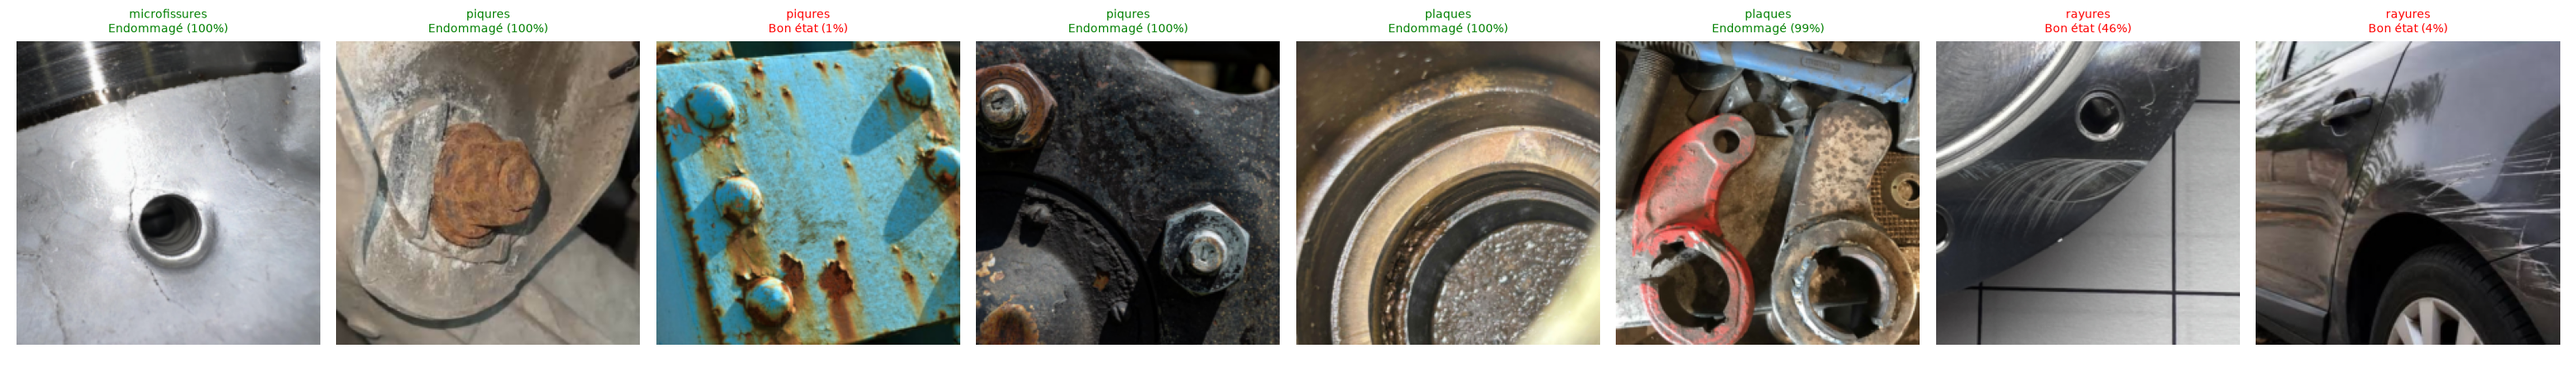
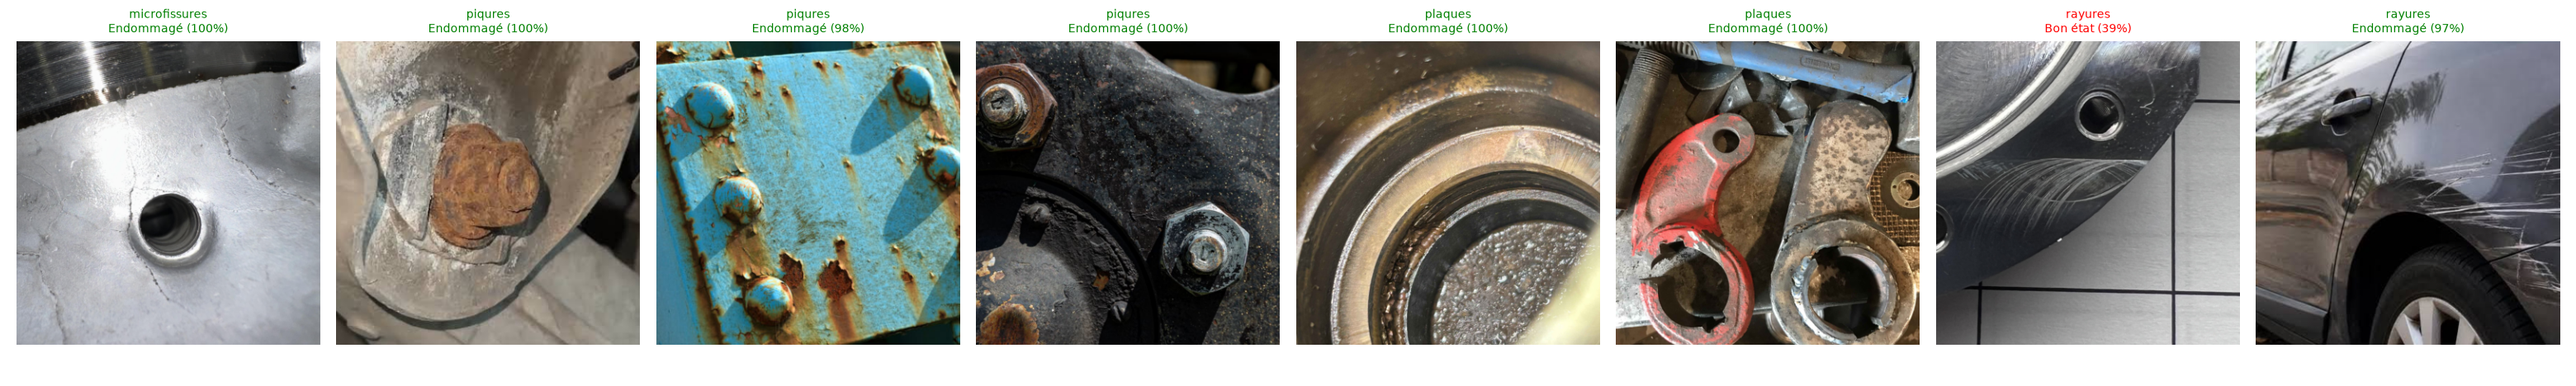
Époque essai images en 384 px (modèle final, retenu sur la validation)

diff --git a/diagnostic/vision.py b/diagnostic/vision.py
@@ -21,12 +21,19 @@ MODELE_NEU = RACINE / "modeles" / "vision_resnet18.pt"
 
 # Normalisation ImageNet : celle du ResNet18 préentraîné
 MOYENNE, ECART_TYPE = [0.485, 0.456, 0.406], [0.229, 0.224, 0.225]
-transfo_etat = transforms.Compose([
-    transforms.Resize(256),
-    transforms.CenterCrop(224),
-    transforms.ToTensor(),
-    transforms.Normalize(MOYENNE, ECART_TYPE),
-])
+
+
+def transformation_etat(taille=224):
+    """Redimensionnement puis carré central de « taille » pixels (même rapport que 256 → 224)."""
+    return transforms.Compose([
+        transforms.Resize(round(taille * 256 / 224)),
+        transforms.CenterCrop(taille),
+        transforms.ToTensor(),
+        transforms.Normalize(MOYENNE, ECART_TYPE),
+    ])
+
+
+transfo_etat = transformation_etat(224)
 transfo_neu = transforms.Compose([
     transforms.Grayscale(num_output_channels=3),  # images NEU en niveaux de gris → 3 canaux
     transforms.Resize((224, 224)),
@@ -43,13 +50,13 @@ def creer_resnet(nb_classes, preentraine=True):
 
 
 def charger_resnet(chemin, notebook):
-    """Retourne (modèle en mode évaluation, noms des classes) depuis un fichier .pt."""
+    """Retourne (modèle en mode évaluation, noms des classes, taille d'image) depuis un fichier .pt."""
     if not Path(chemin).exists():
         raise FileNotFoundError(f"Modèle introuvable : {chemin}\nExécutez d'abord notebooks/{notebook}.")
     sauvegarde = torch.load(chemin, map_location="cpu", weights_only=True)
     modele = creer_resnet(len(sauvegarde["classes"]), preentraine=False)
     modele.load_state_dict(sauvegarde["etat"])
-    return modele.eval(), sauvegarde["classes"]
+    return modele.eval(), sauvegarde["classes"], sauvegarde.get("taille", 224)
 
 
 def ouvrir(image):
@@ -92,11 +99,12 @@ class DetecteurEtat:
     """Modèle v2 : probabilité que la pièce soit endommagée."""
 
     def __init__(self, chemin=MODELE_ETAT):
-        self.modele, self.classes = charger_resnet(chemin, "entrainement_v2.ipynb")
+        self.modele, self.classes, taille = charger_resnet(chemin, "entrainement_v2.ipynb")
+        self.transformation = transformation_etat(taille)  # taille d'image utilisée à l'entraînement
 
     def proba_endommage(self, image):
         with torch.no_grad():
-            p = torch.softmax(self.modele(transfo_etat(ouvrir(image).convert("RGB")).unsqueeze(0)), dim=1)[0]
+            p = torch.softmax(self.modele(self.transformation(ouvrir(image).convert("RGB")).unsqueeze(0)), dim=1)[0]
         return p[self.classes.index("endommage")].item()
 
 
@@ -104,7 +112,7 @@ class ClassifieurDefauts:
     """Modèle NEU : probabilité de chaque défaut de surface (identifiants de la base de connaissances)."""
 
     def __init__(self, chemin=MODELE_NEU, base=None):
-        self.modele, self.classes = charger_resnet(chemin, "entrainement_neu.ipynb")
+        self.modele, self.classes, _ = charger_resnet(chemin, "entrainement_neu.ipynb")
         self.base = base or BaseConnaissances()
         # Classe NEU (ex. « crazing ») → identifiant de défaut (ex. « microfissures »)
         neu_vers_defaut = {d["classe_neu"]: id_d for id_d, d in self.base.defauts.items()}

diff --git a/tests/test_vision.py b/tests/test_vision.py
@@ -3,7 +3,7 @@ import pytest
 torch = pytest.importorskip("torch")
 
 from diagnostic.base_connaissances import BaseConnaissances
-from diagnostic.vision import MODELE_NEU, ClassifieurDefauts, creer_resnet
+from diagnostic.vision import MODELE_NEU, ClassifieurDefauts, DetecteurEtat, creer_resnet
 
 CLASSES_NEU = ["crazing", "inclusion", "patches", "pitted_surface", "rolled-in_scale", "scratches"]
 
@@ -27,3 +27,14 @@ def test_classifieur_retourne_des_probabilites():
     resultats = ClassifieurDefauts().predire(Image.new("L", (200, 200), color=128))
     assert len(resultats) == 6
     assert abs(sum(r["probabilite"] for r in resultats) - 1) < 0.01
+
+
+def test_detecteur_utilise_la_taille_du_modele(tmp_path):
+    from PIL import Image
+
+    chemin = tmp_path / "etat.pt"
+    torch.save({"etat": creer_resnet(2, preentraine=False).state_dict(), "classes": ["bon_etat", "endommage"],
+                "taille": 96}, chemin)
+    detecteur = DetecteurEtat(chemin)
+    assert detecteur.transformation(Image.new("RGB", (300, 200))).shape == (3, 96, 96)
+    assert 0 <= detecteur.proba_endommage(Image.new("RGB", (300, 200))) <= 1
